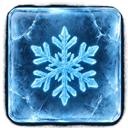
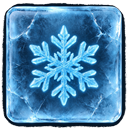
v1.12.8: gems v6 - crop out surrounding black from V4 images, gems now fill the whole canvas (edge-tight, transparent corners)

diff --git a/js/game/main.js b/js/game/main.js
@@ -49,7 +49,7 @@ if (!ctx) {
 const LOGIC_W = CONFIG.DESIGN.W;      // 750
 const LOGIC_H = CONFIG.DESIGN.H;      // 1334
 const WAVE_DUR = CONFIG.WAVE.seconds; // 40s
-const GAME_VERSION = 'v1.12.7';        // 设置弹层版本信息
+const GAME_VERSION = 'v1.12.8';        // 设置弹层版本信息
 const { SaveManager } = require('../save.js');
 const { WaveDirector } = require('../wave.js');
 const { Match3Controller } = require('../match3.js');
